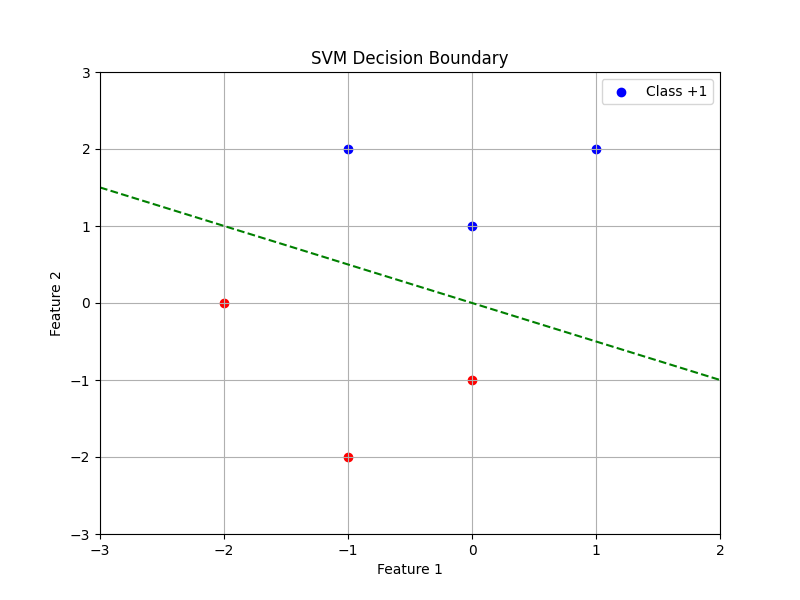
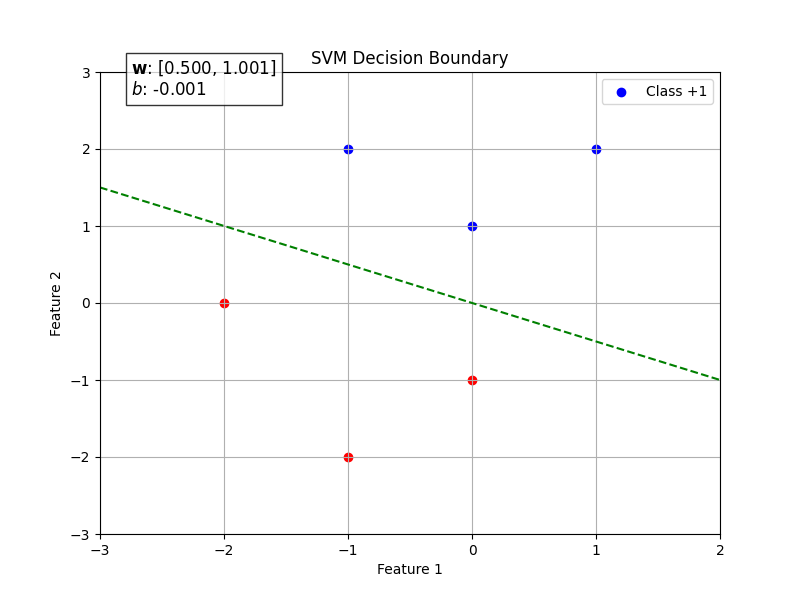
Add files via upload

Changed region(s): [[0.1562, 0.06, 0.375, 0.18]]

diff --git a/svm_lns.py b/svm_lns.py
@@ -3,6 +3,9 @@ from scipy.optimize import minimize
 from scipy.optimize import Bounds
 import matplotlib.pyplot as plt
 
+
+C = 0.1
+
 # Example data (replace with your actual data)
 X = np.array([[1, 2], [0, 1], [-1, 0], [-1, 2], [0, -1], [-1, -2], [-1, 1], [-2, 0]])  # Feature vectors (n_samples x n_features)
 y = np.array([1, 1, 1, 1, -1, -1, -1, -1])  # Labels (+1 or -1)
@@ -21,7 +24,6 @@ def objective(alpha):
     term2 = np.sum(np.abs(alpha))  # L1 norm
     return -(term1 + term2)
 
-C = 0.1
 bounds = Bounds(0, C)
 
 # Initial guess for alpha
@@ -33,10 +35,6 @@ result = minimize(objective, alpha0, method="SLSQP", bounds=bounds)  # SLSQP han
 # Output the solution
 alpha_optimal = result.x
 w = np.sum(alpha_optimal[:, None] * y[:, None] * X, axis=0)
-
-# Output psi^0
-print("w:", w)
-
 support_vector_idx = np.where(alpha_optimal > 1e-5)[0][0]  # Find the first support vector
 b = y[support_vector_idx] - np.dot(w, X[support_vector_idx])
 
@@ -56,6 +54,14 @@ Z = w[0] * xx + w[1] * yy + b
 
 # Plot the decision boundary
 plt.contour(xx, yy, Z, levels=[0], colors='green', linestyles='--')
+
+plt.text(
+    0.05, 0.95, 
+    f"$\mathbf{{w}}$: [{w[0]:.2f}, {w[1]:.2f}]\n$b$: {b:.2f}",
+    transform=plt.gca().transAxes,
+    fontsize=12,
+    bbox=dict(facecolor='white', alpha=0.8, edgecolor='black')
+)
 
 # Labels and legend
 plt.xlabel('Feature 1')

diff --git a/svm_ls.py b/svm_ls.py
@@ -34,9 +34,6 @@ alpha_optimal = result.x
 w = np.sum(alpha_optimal[:, None] * y[:, None] * X, axis=0)
 support_vector_idx = np.where(alpha_optimal > 1e-5)[0][0]  # Find the first support vector
 b = y[support_vector_idx] - np.dot(w, X[support_vector_idx])
-# Output psi^0
-print("w:", w)
-print("b:", b)
 
 # Plot the data points
 plt.figure(figsize=(8, 6))
@@ -54,6 +51,14 @@ Z = w[0] * xx + w[1] * yy + b
 
 # Plot the decision boundary
 plt.contour(xx, yy, Z, levels=[0], colors='green', linestyles='--')
+
+plt.text(
+    0.05, 0.95, 
+    f"$\mathbf{{w}}$: [{w[0]:.3f}, {w[1]:.3f}]\n$b$: {b:.3f}",
+    transform=plt.gca().transAxes,
+    fontsize=12,
+    bbox=dict(facecolor='white', alpha=0.8, edgecolor='black')
+)
 
 # Labels and legend
 plt.xlabel('Feature 1')
